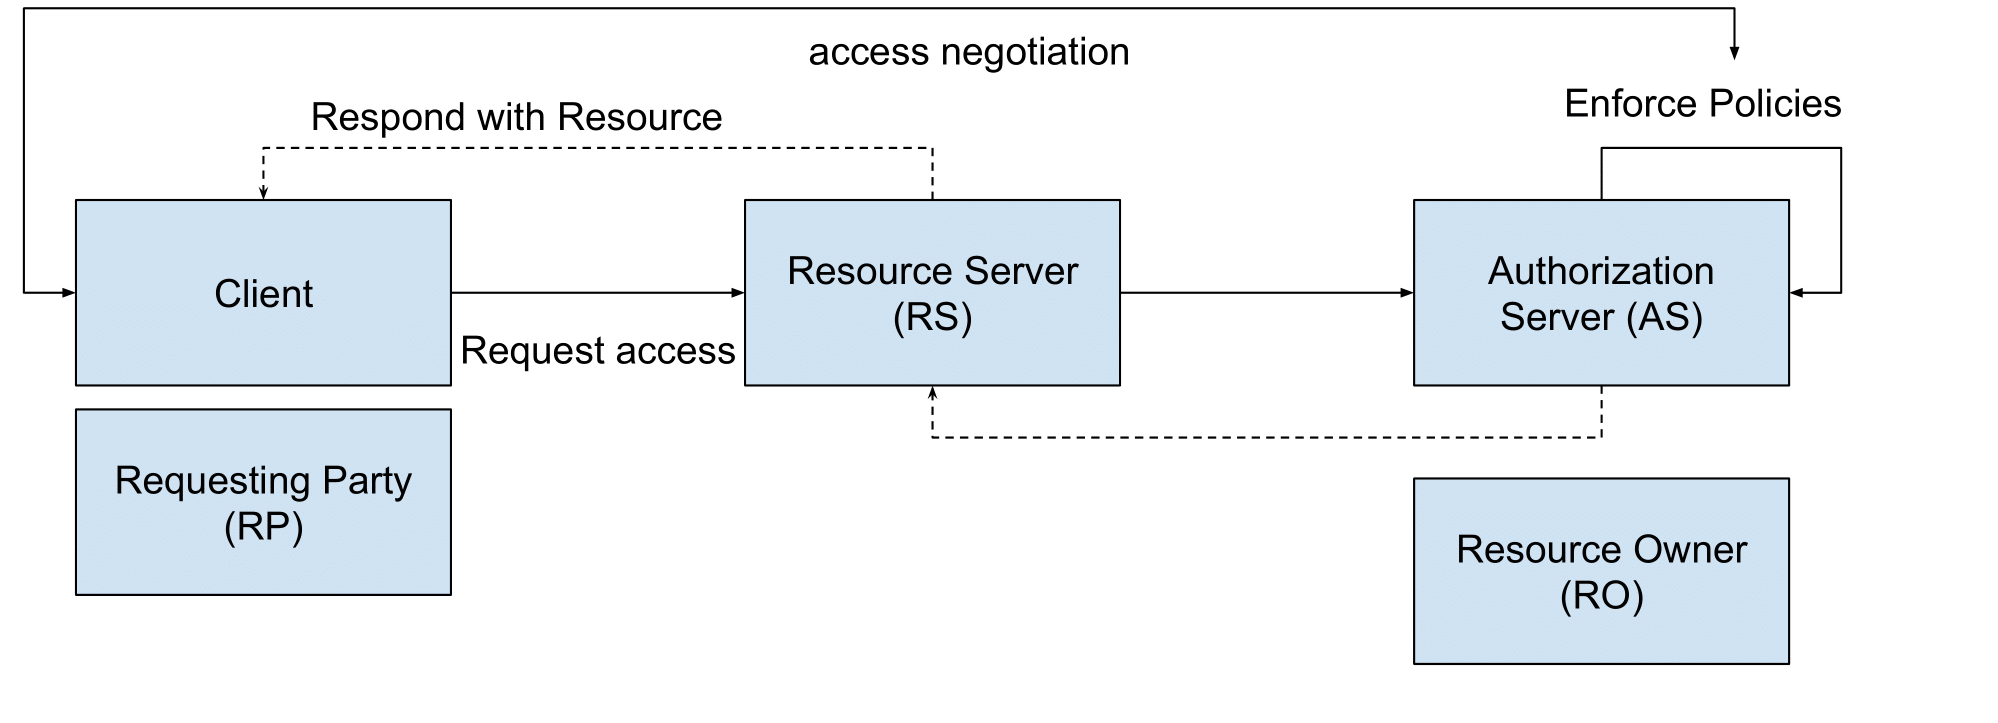
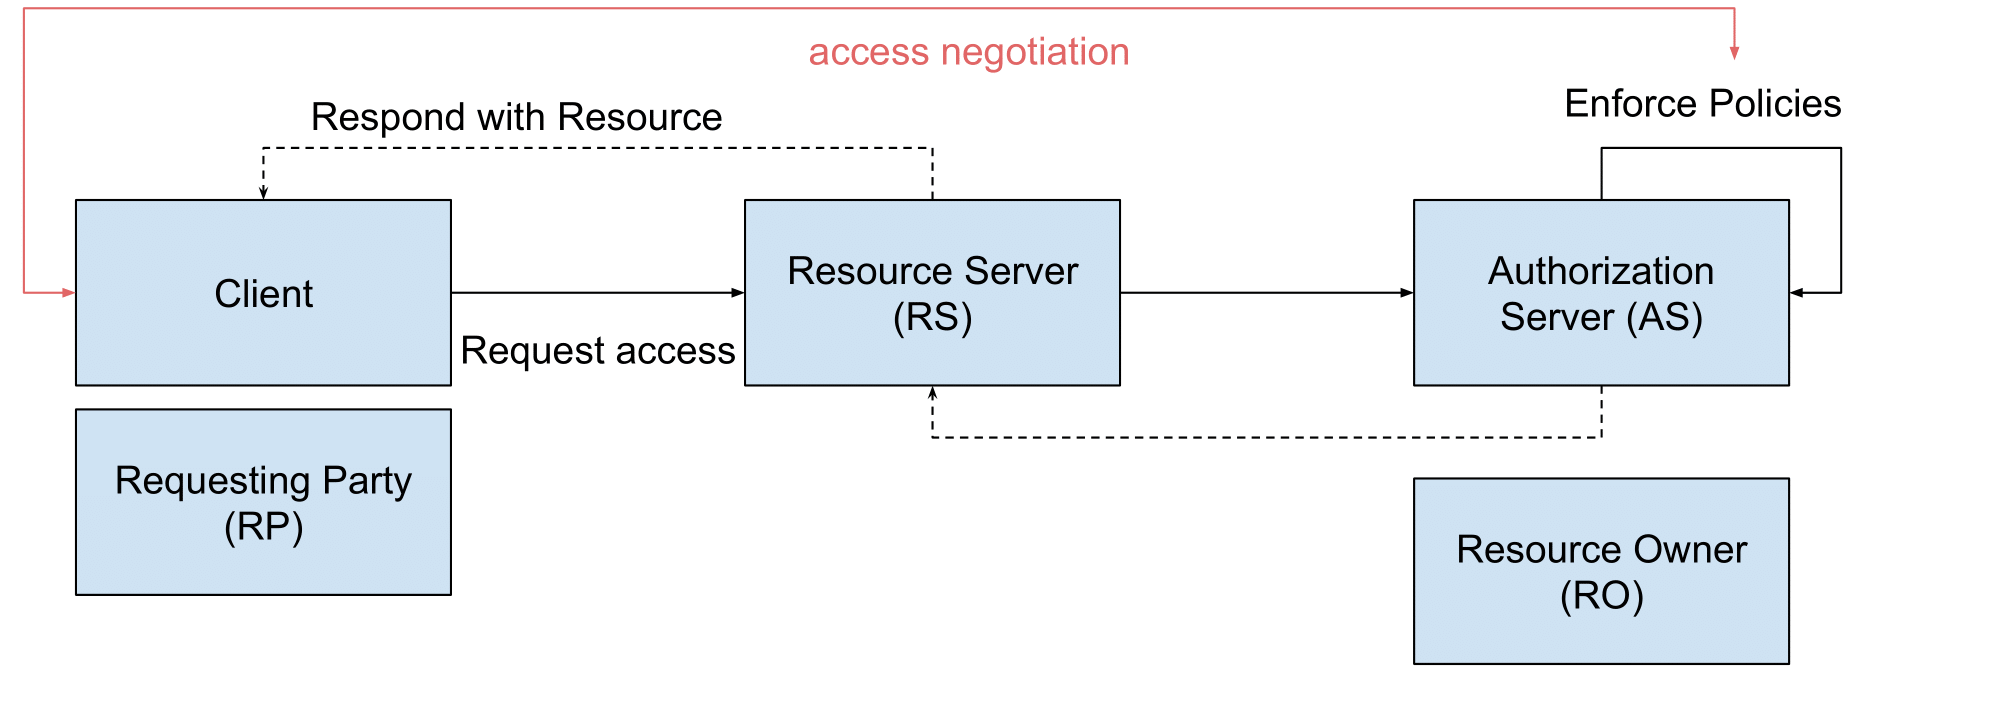
docs: added step 1 of the content negotiation procotol

Changed region(s): [[0.0, 0.0, 0.8689, 0.0304], [0.4034, 0.0609, 0.5586, 0.0913]]

diff --git a/documentation/access_grants_vs_dsnp.md b/documentation/access_grants_vs_dsnp.md
@@ -1,4 +1,4 @@
-# Access Requests and Grants vs Data Space Negotiation Protocol (DSNP)
+# Access Requests and Grants vs Data Space Contract Negotiation Protocol (DSNP)
 
 This document outlines the differences between simple access requests and grants and the data space negotiation protocol for allowing access to certain resources.
 It starts by situating the use case and adding extra context, after which the message flow for each of the options is explained.
@@ -10,16 +10,17 @@ This resource is managed by a Resource Server (RS).
 The Resource Owner (RO) can alter the policies on their resources via the Authorization Server (AS).
 The AS enforces the policies set by the RO when the RP interacts with the RS (possibly through a Client).
 
-This flow is visualized in the graph below:
+This flow is visualized in the graph below.
+This document focuses on the message format and flow for the highlighted part of this graph.
 
 ![use case visualization](./use_case.png)
 
 In this specific use case, we will identify the following entities:
 
-- Resource Owner: `https://pod.harrypodder.org/profile/card#me`
-- Authorization Server: `http://localhost:4000`
-- Resource Server: `http://localhost:3000/resources`
-- Requesting Party: `https://example.pod.knows.idlab.ugent.be/profile/card#me`
+- **Resource Owner**: `https://pod.harrypodder.org/profile/card#me`
+- **Authorization Server**: `http://localhost:4000`
+- **Resource Server**: `http://localhost:3000/resources`
+- **Requesting Party**: `https://example.pod.knows.idlab.ugent.be/profile/card#me`
 
 The RP might interact with the RS and AS through a Client (e.g.: LOAMA).
 The examples below will use either `text/turtle` or `application/ld+json` format.
@@ -29,11 +30,11 @@ The examples below will use either `text/turtle` or `application/ld+json` format
 Of both options, this one is the simplest to implement.
 Basicly, the RP will send a Request to the AS specifying the following:
 
-- which resource they wish to access,
-- what access rights they want (read, write, update...),
-- who the requesting party is,
-- the request status: always `requested`, and
-- when the request was issued.
+- which **resource** they wish to access,
+- what **access rights** they want (read, write, update...),
+- who the **requesting party** is,
+- the **request status**: always `requested`, and
+- **when** the request was **issued**.
 
 Once sent towards the AS by the RP, the request will be in `requested` state.
 It will remain in this state until the RO decides to update it to `accepted` or `denied`.
@@ -116,7 +117,7 @@ PREFIX req: <https://access.request.org/>
 DELETE {
     ?request req:status req:requested
 } INSERT {
-    ?request req:status req:accepted
+    ?request req:status req:accepted # change to `req:denied` in order to deny
 } WHERE {
     ?request req:target <http://localhost:3000/resources/resource.txt>
 }
@@ -125,15 +126,119 @@ DELETE {
 
 After this, the resource should be accessible for the RP.
 
-## Data Space Negotiation Protocol flow
+## Data Space Contract Negotiation Protocol flow
+
+This section explains the message flow for the second option: using the [Data Space Contract Negotiation Procotol](https://eclipse-dataspace-protocol-base.github.io/DataspaceProtocol/2025-1-RC4/#negotiation-protocol). Important to note is that this document is not an official W3C Membership consensus.
+The examples below will make use of CURL to show the requests and headers, with the bodies specified in the `application/ld+json` format.
+
+### Communicating Parties
+
+The DSCNP discusses `Provider`s and `Consumer`s that communicate with eachother to access `Dataset`s that the `Provider` offers.
+These `Dataset`s come with a `Policy`, however, that is beyond the scope of this example.
+Instead, we focus on the `Contract Negotiation`s (CN).
+Just like the `Request`s before, these CNs are identified through a unique IRI.
+These CNs progress through a series of possible states, tracked by both `Provider` and `Consumer`.
+Transitions are based on **ACK** `Message`s from the counter-party.
+
+In our case, the `Provider` will be the Authorization Server, while the `Consumer` will be either the Requesting Party or its Client.
+The `Consumer` *MUST* have an associated *callbackAddress` indicating where `Message`s should be sent:
+
+- **Callback address**: `http://localhost:3000/callback`
+
+### State diagram
+
+The states are listed and explained in [section 7.1.1](https://eclipse-dataspace-protocol-base.github.io/DataspaceProtocol/2025-1-RC4/#contract-negotiation-states).
+The state diagram below is copied from [section 7.1.2](https://eclipse-dataspace-protocol-base.github.io/DataspaceProtocol/2025-1-RC4/#state-machine):
+
+![data space contract negotiation protocol](./cn_fsm.png)
+
+### Step 1: **REQUESTED**
+
+This document only considers the case in which the RP initiates the protocol by sending a [`ContractRequestMessage`](https://eclipse-dataspace-protocol-base.github.io/DataspaceProtocol/2025-1-RC4/#contract-request-message) to the AS.
+The other case is analogous, except for the initial message (which should be swapped for an initiating [`ContractOfferMessage`](https://eclipse-dataspace-protocol-base.github.io/DataspaceProtocol/2025-1-RC4/#contract-offer-message)).
+
+The most important features in our `ContractRequestMessage` are the following:
+
+- an `offer`, which *MUST* have an `@id` property and specifies the terms (permissions) at which the RP will accept an [`Offer`](https://eclipse-dataspace-protocol-base.github.io/DataspaceProtocol/2025-1-RC4/#dfn-offer).
+- the callback address for asynchronous communication.
+
+The example request would be formatted like this:
+
+```json
+{
+    "@context": [
+        "https://w3id.org/dspace/2025/1/context.jsonld"
+    ],
+    "@type": "ContractRequestMessage",
+    "consumerPid": "urn:uuid:<RequestingPartyUUID>",
+    "offer": {
+        "@type": "Offer",
+        "@id": "urn:uuid:<OfferUUID>",
+        "target": "urn:uuid:<ResourceUUID>", // Resource = http://localhost:3000/resources/resource.txt
+        "permission": [
+            {
+                "action": "use"
+            }
+        ]
+    },
+    "callbackAddress": "https://localhost:3000/callback"
+}
+```
+
+The AS *MUST* provide the following endpoint:
+
+- **POST** `/negotations/request`: [Contract Request Endpoint (init)](https://eclipse-dataspace-protocol-base.github.io/DataspaceProtocol/2025-1-RC4/#negotiations-request-post)
+
+A valid message would thus be:
+
+```shell-session
+$ curl --location 'http://localhost:4000/uma/negotations/request' \
+--header 'Authorization: https://example.pod.knows.idlab.ugent.be/profile/card#me' \
+--header 'Content-Type: application/ld+json' \
+--data-raw '
+{
+    "@context": [
+        "https://w3id.org/dspace/2025/1/context.jsonld"
+    ],
+    "@type": "ContractRequestMessage",
+    "consumerPid": "urn:uuid:<RequestingPartyUUID>",
+    "offer": {
+        "@type": "Offer",
+        "@id": "urn:uuid:<OfferUUID>",
+        "target": "urn:uuid:<ResourceUUID>", // Resource = http://localhost:3000/resources/resource.txt
+        "permission": [
+            {
+                "action": "use"
+            }
+        ]
+    },
+    "callbackAddress": "https://localhost:3000/callback"
+}
+'
+```
+
+However, the DSCNP protocol does require one more action in order to transfer both `Consumer` and `Provider` towards the **REQUESTED** state: the AS *MUST* respond with an **ACK** formatted like below.
+The standard, however, doesn't provide any guidelines on where this message should be sent, other than that it should be sent towards the callback address.
+
+```json
+{
+    "@context": [
+        "https://w3id.org/dspace/2025/1/context.jsonld"
+    ],
+    "@type": "ContractNegotation",
+    "consumerPid": "urn:uuid:<RequestingPartyUUID>",
+    "providerPid": "urn:uuid:<AuthorizationServerUUID>",
+    "state": "REQUESTED"
+}
+```
 
 ## Implementation Details
 
 These notes were discussed in private, but provide valuable information during implementation of either option.
 
 - **resource coupling to RO**: neither of the request message flows holds any reference to the resource owner.
-The UMA AS implementation should provide this coupling internally in order to provide ROs with requests concering their resources.
+    The UMA AS implementation should provide this coupling internally in order to provide ROs with requests concering their resources.
 
 - **absence of policies for resources**: the current UMA AS implementation holds a record of policies for resources.
-When the AS receives a request for access to an unknown resource, it should possibly not return a 404 status code, as to not leak the information about the non-existence of a certain resource.
-Discoverable policies thus provide a finite set of resources the AS manages and accepts requests for.
+    When the AS receives a request for access to an unknown resource, it should possibly not return a 404 status code, as to not leak the information about the non-existence of a certain resource.
+    Discoverable policies thus provide a finite set of resources the AS manages and accepts requests for.